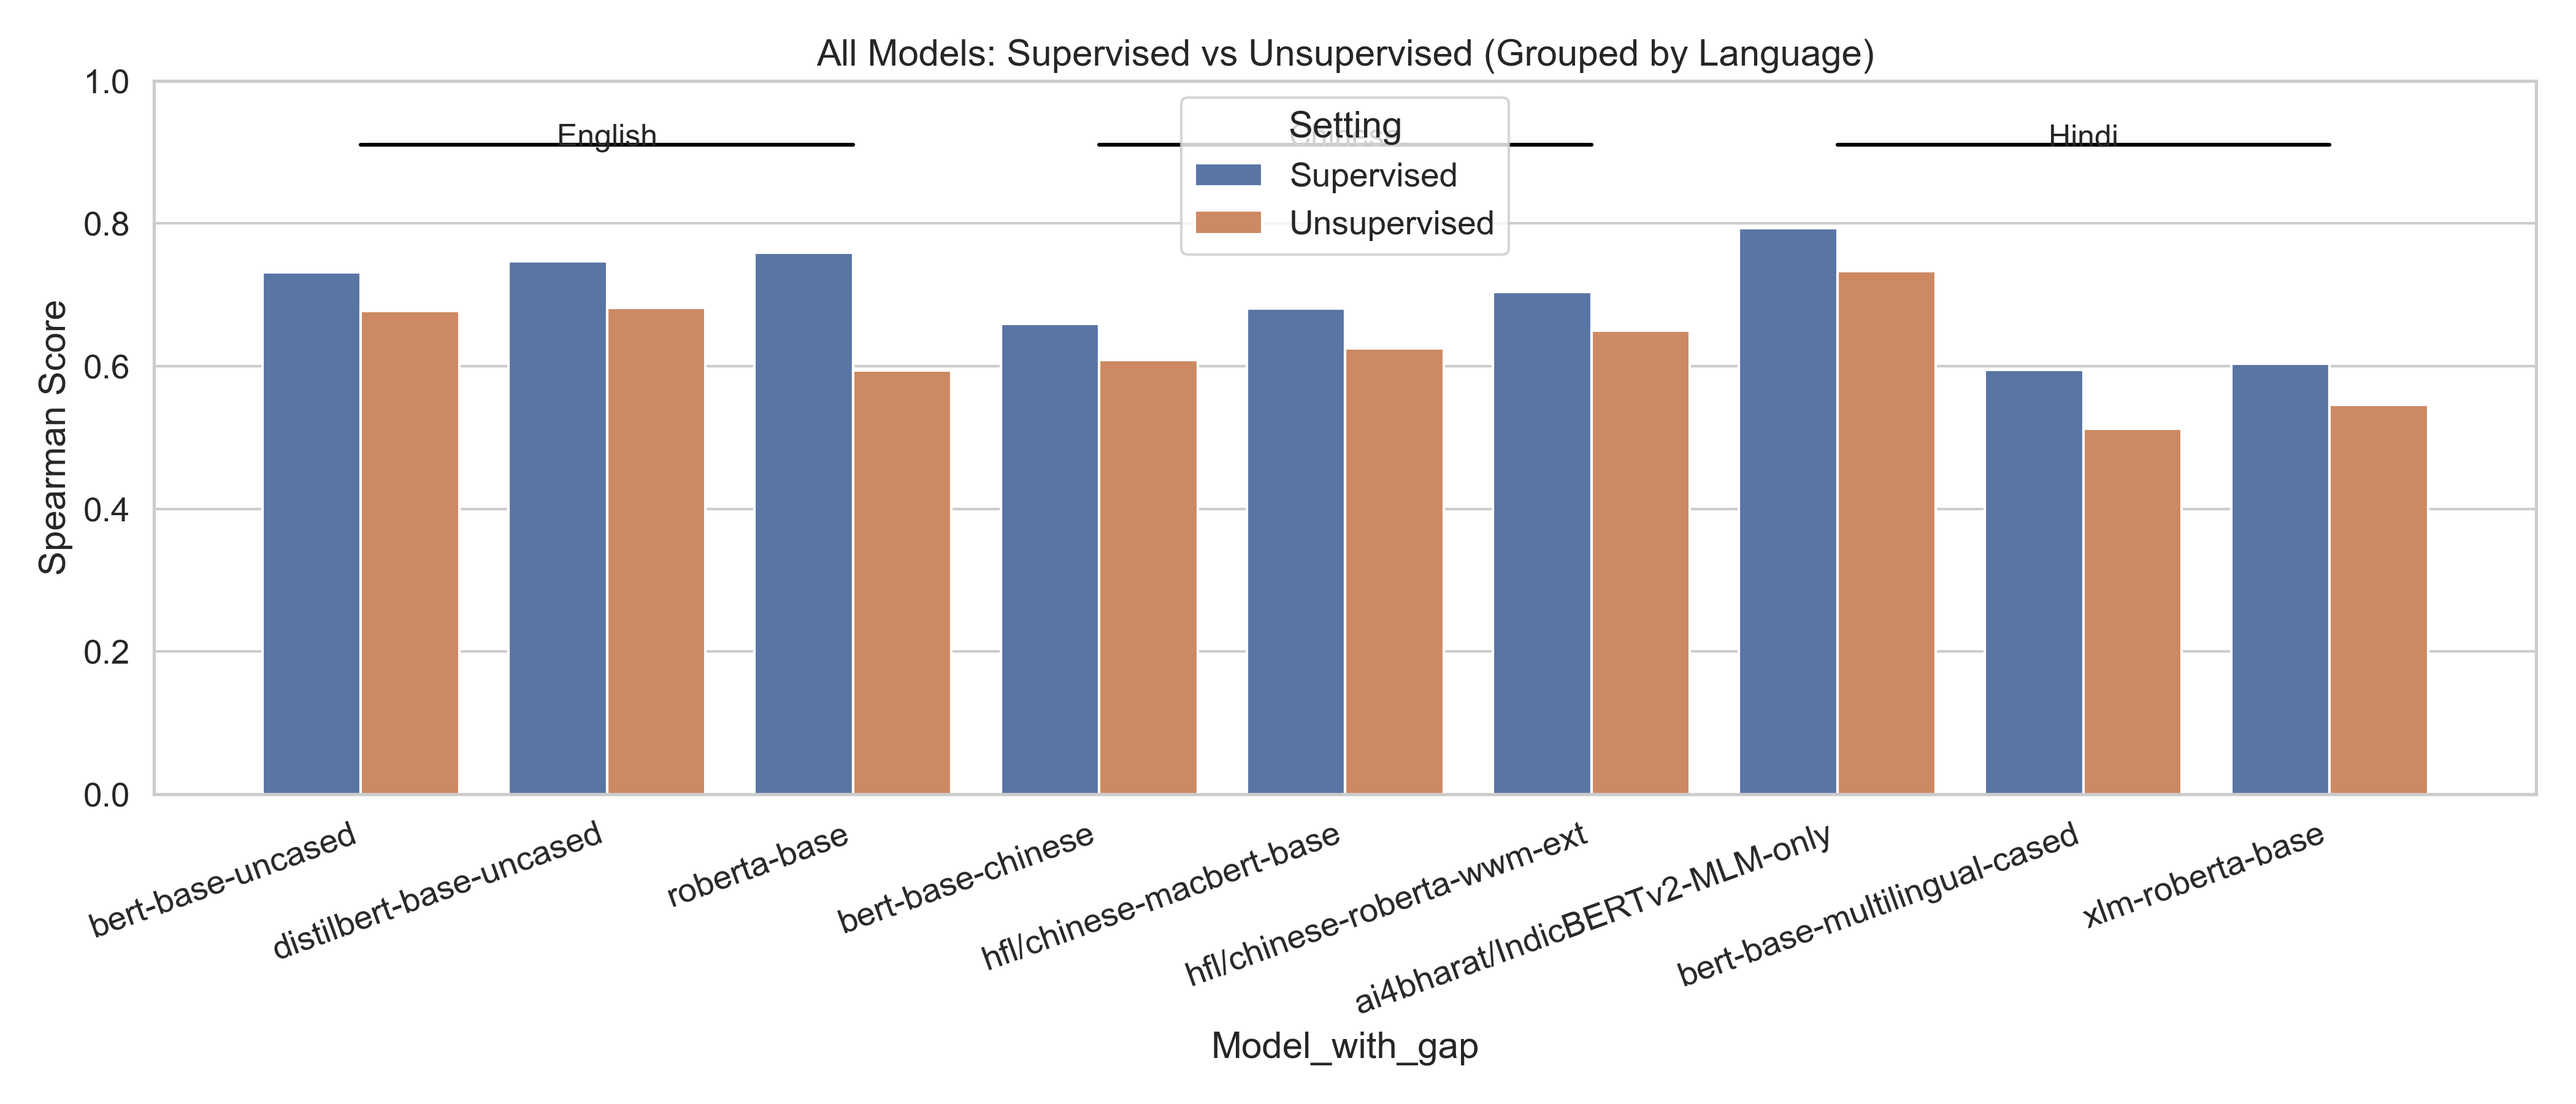
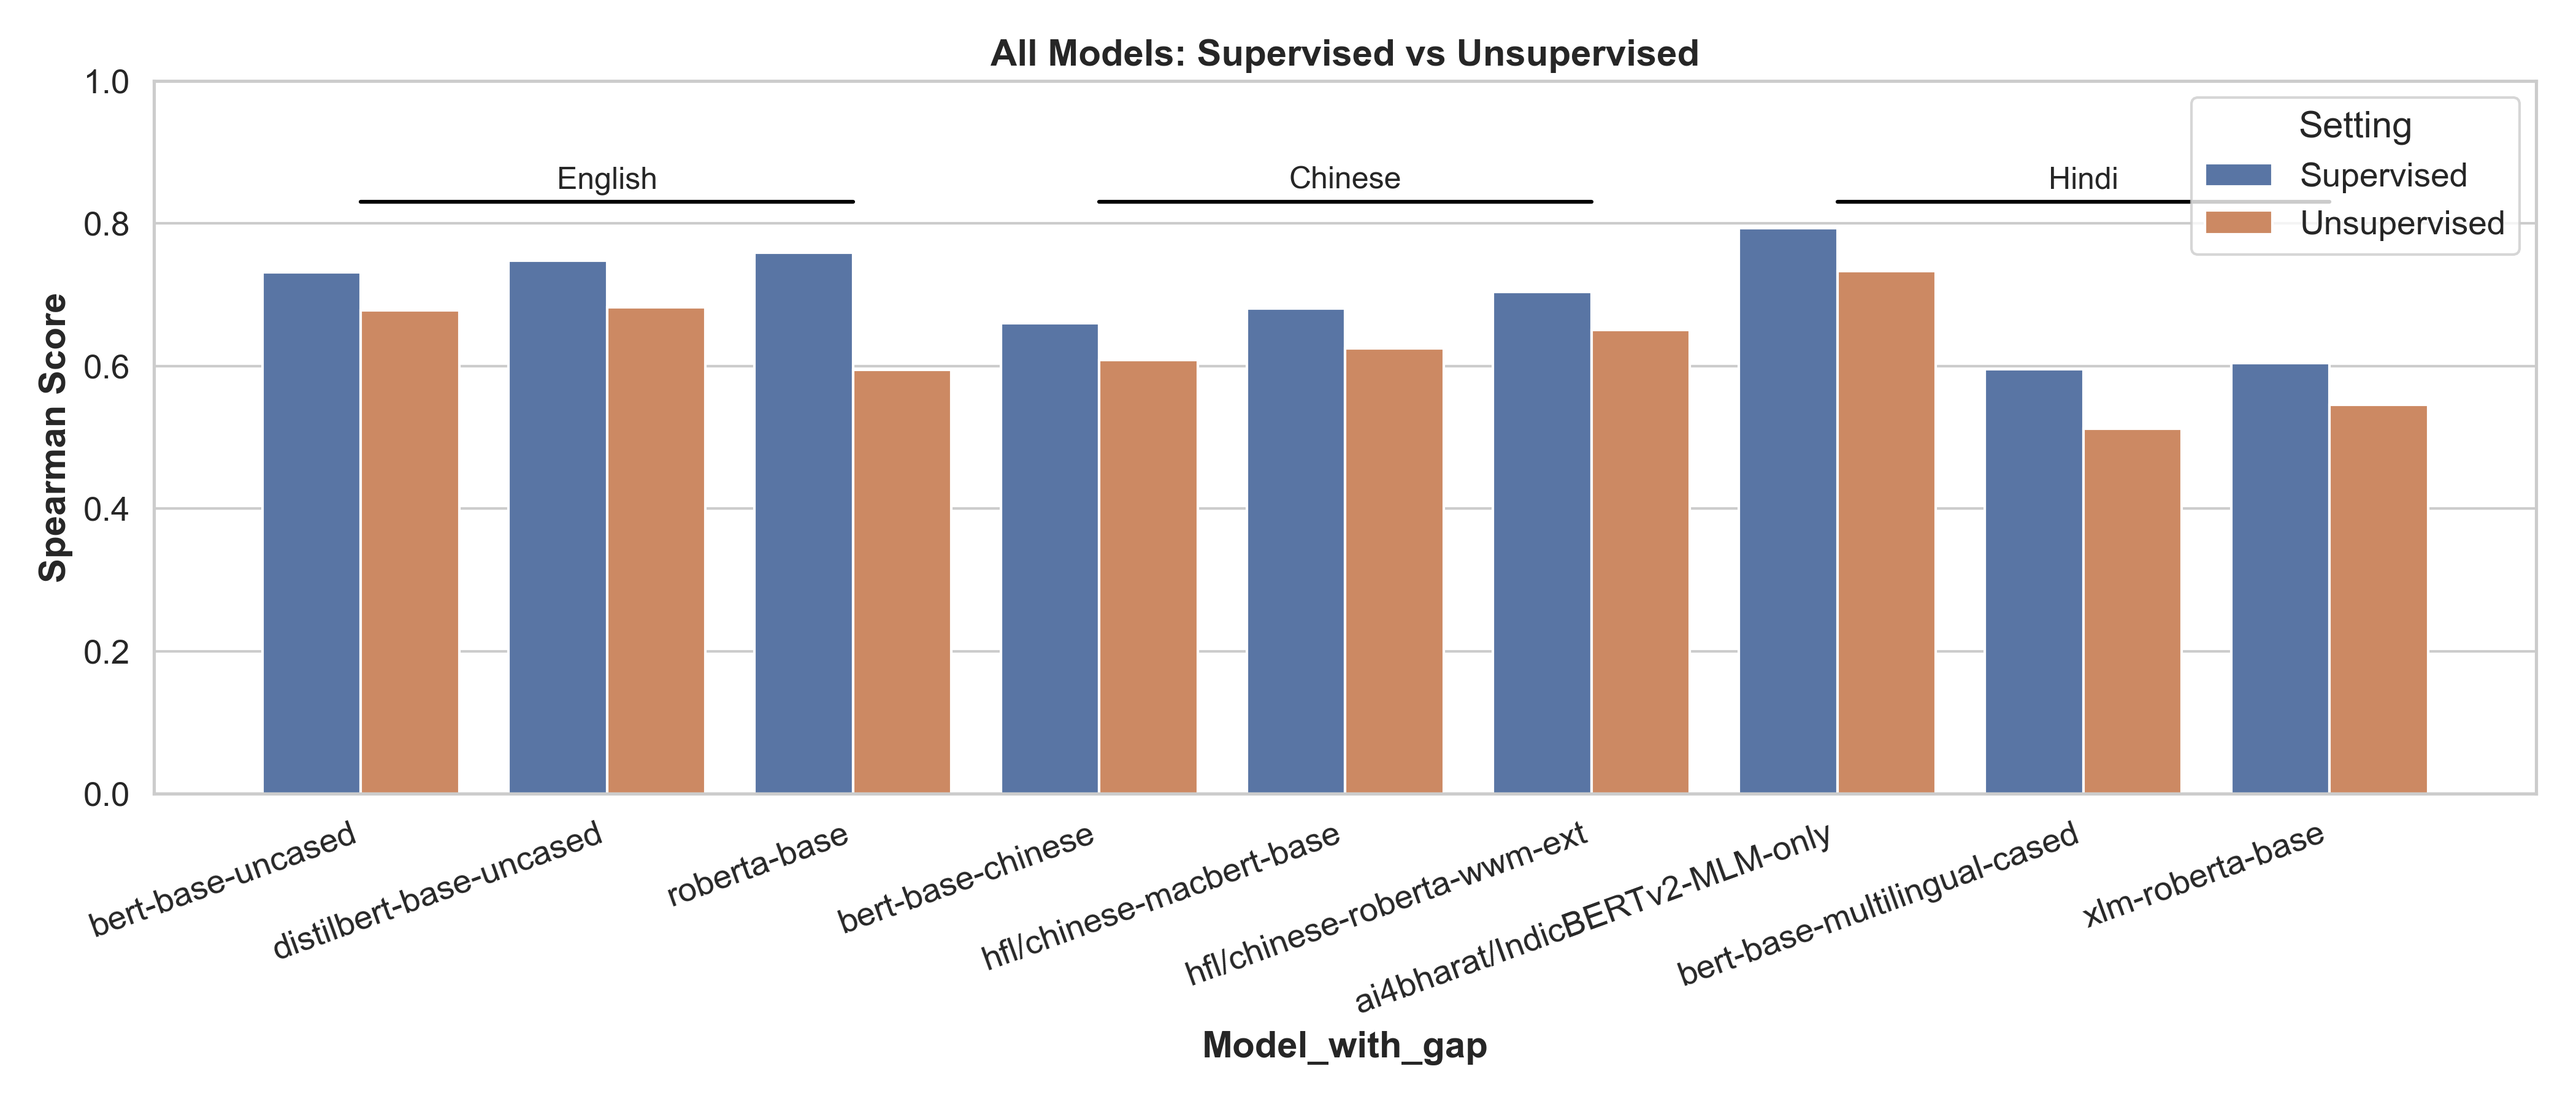
modify sup vs unsup plot

diff --git a/plots/plot.py b/plots/plot.py
@@ -157,8 +157,9 @@ ax = sns.barplot(
 )
 
 plt.xticks(rotation=20, ha="right")
-plt.title("All Models: Supervised vs Unsupervised (Grouped by Language)")
-plt.ylabel("Spearman Score")
+plt.title("All Models: Supervised vs Unsupervised", fontweight="bold")
+plt.ylabel("Spearman Score", fontweight="bold")
+plt.xlabel("Model_with_gap", fontweight="bold")
 
 # Compute x-coordinates for each real tick
 xticks = ax.get_xticks()
@@ -175,15 +176,17 @@ chinese_end = chinese_start + len(chinese_models) - 1
 hindi_start = chinese_end + 1
 hindi_end = hindi_start + len(hindi_models) - 1
 
-y_top = 0.92  # safely below title but above bars
+y_top = 1.0
 
 def draw_group_line(x_start_idx, x_end_idx, label):
     x_start = xticks[x_start_idx]
     x_end = xticks[x_end_idx]
-    plt.plot([x_start, x_end], [y_top - 0.01, y_top - 0.01], color="black", linewidth=1.5)
+
+    # lower the line by ~0.03 and the label by ~0.04
+    plt.plot([x_start, x_end], [y_top - 0.17, y_top - 0.17], color="black", linewidth=1.5)
     plt.text(
         (x_start + x_end) / 2,
-        y_top - 0.02,   # lowered label for cleaner spacing
+        y_top - 0.16,
         label,
         ha="center",
         va="bottom",
@@ -194,6 +197,7 @@ draw_group_line(english_start, english_end, "English")
 draw_group_line(chinese_start, chinese_end, "Chinese")
 draw_group_line(hindi_start, hindi_end, "Hindi")
 
+plt.legend(title="Setting", loc="upper right")
 plt.tight_layout()
 plt.savefig(os.path.join(OUTPUT_DIR, "all_models_sup_unsup_grouped.png"), dpi=300)
 plt.close()
